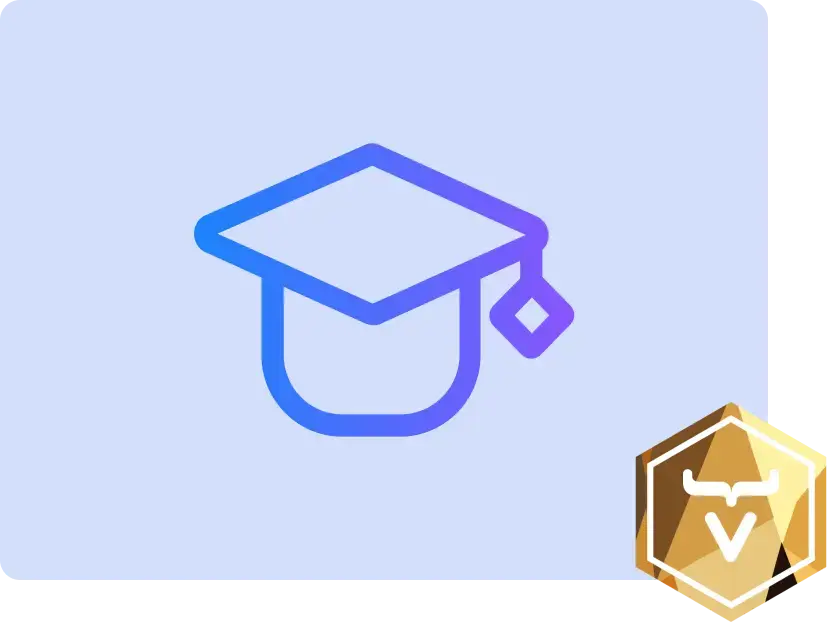
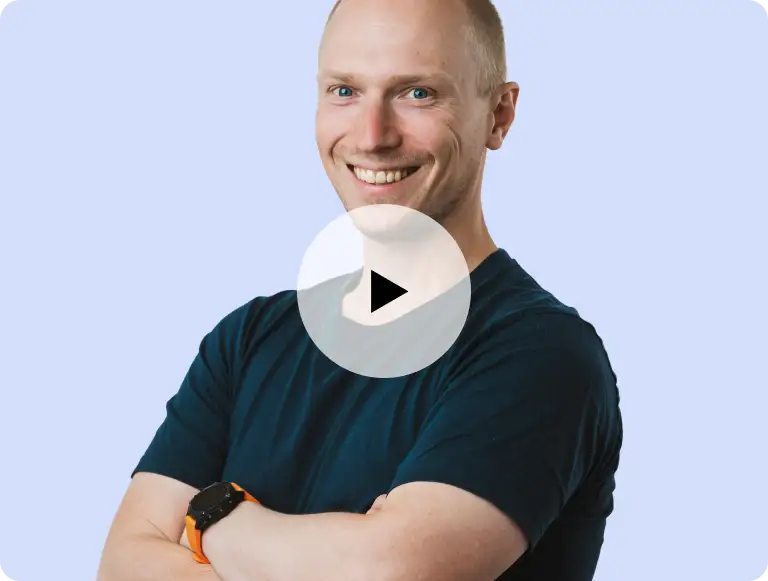
Update toc sidebar tutorials copy and image

diff --git a/dspublisher/theme/init-browser.ts b/dspublisher/theme/init-browser.ts
@@ -233,9 +233,9 @@ class TocFooter extends LitElement {
           <div class="toc-footer">
             <a href="https://vaadin.com/learn/training" class="toc-footer--link">
 
-              <div class="toc-footer--heading">Video tutorial</div>
+              <div class="toc-footer--heading">UI Training & Certification</div>
               <div class="toc-footer--content">
-                Learn Vaadin fundamentals through short video tutorials.
+                Master your Java web app development skills and become a certified Vaadin developer.
               </div>
 
               <div class="toc-footer--img">
